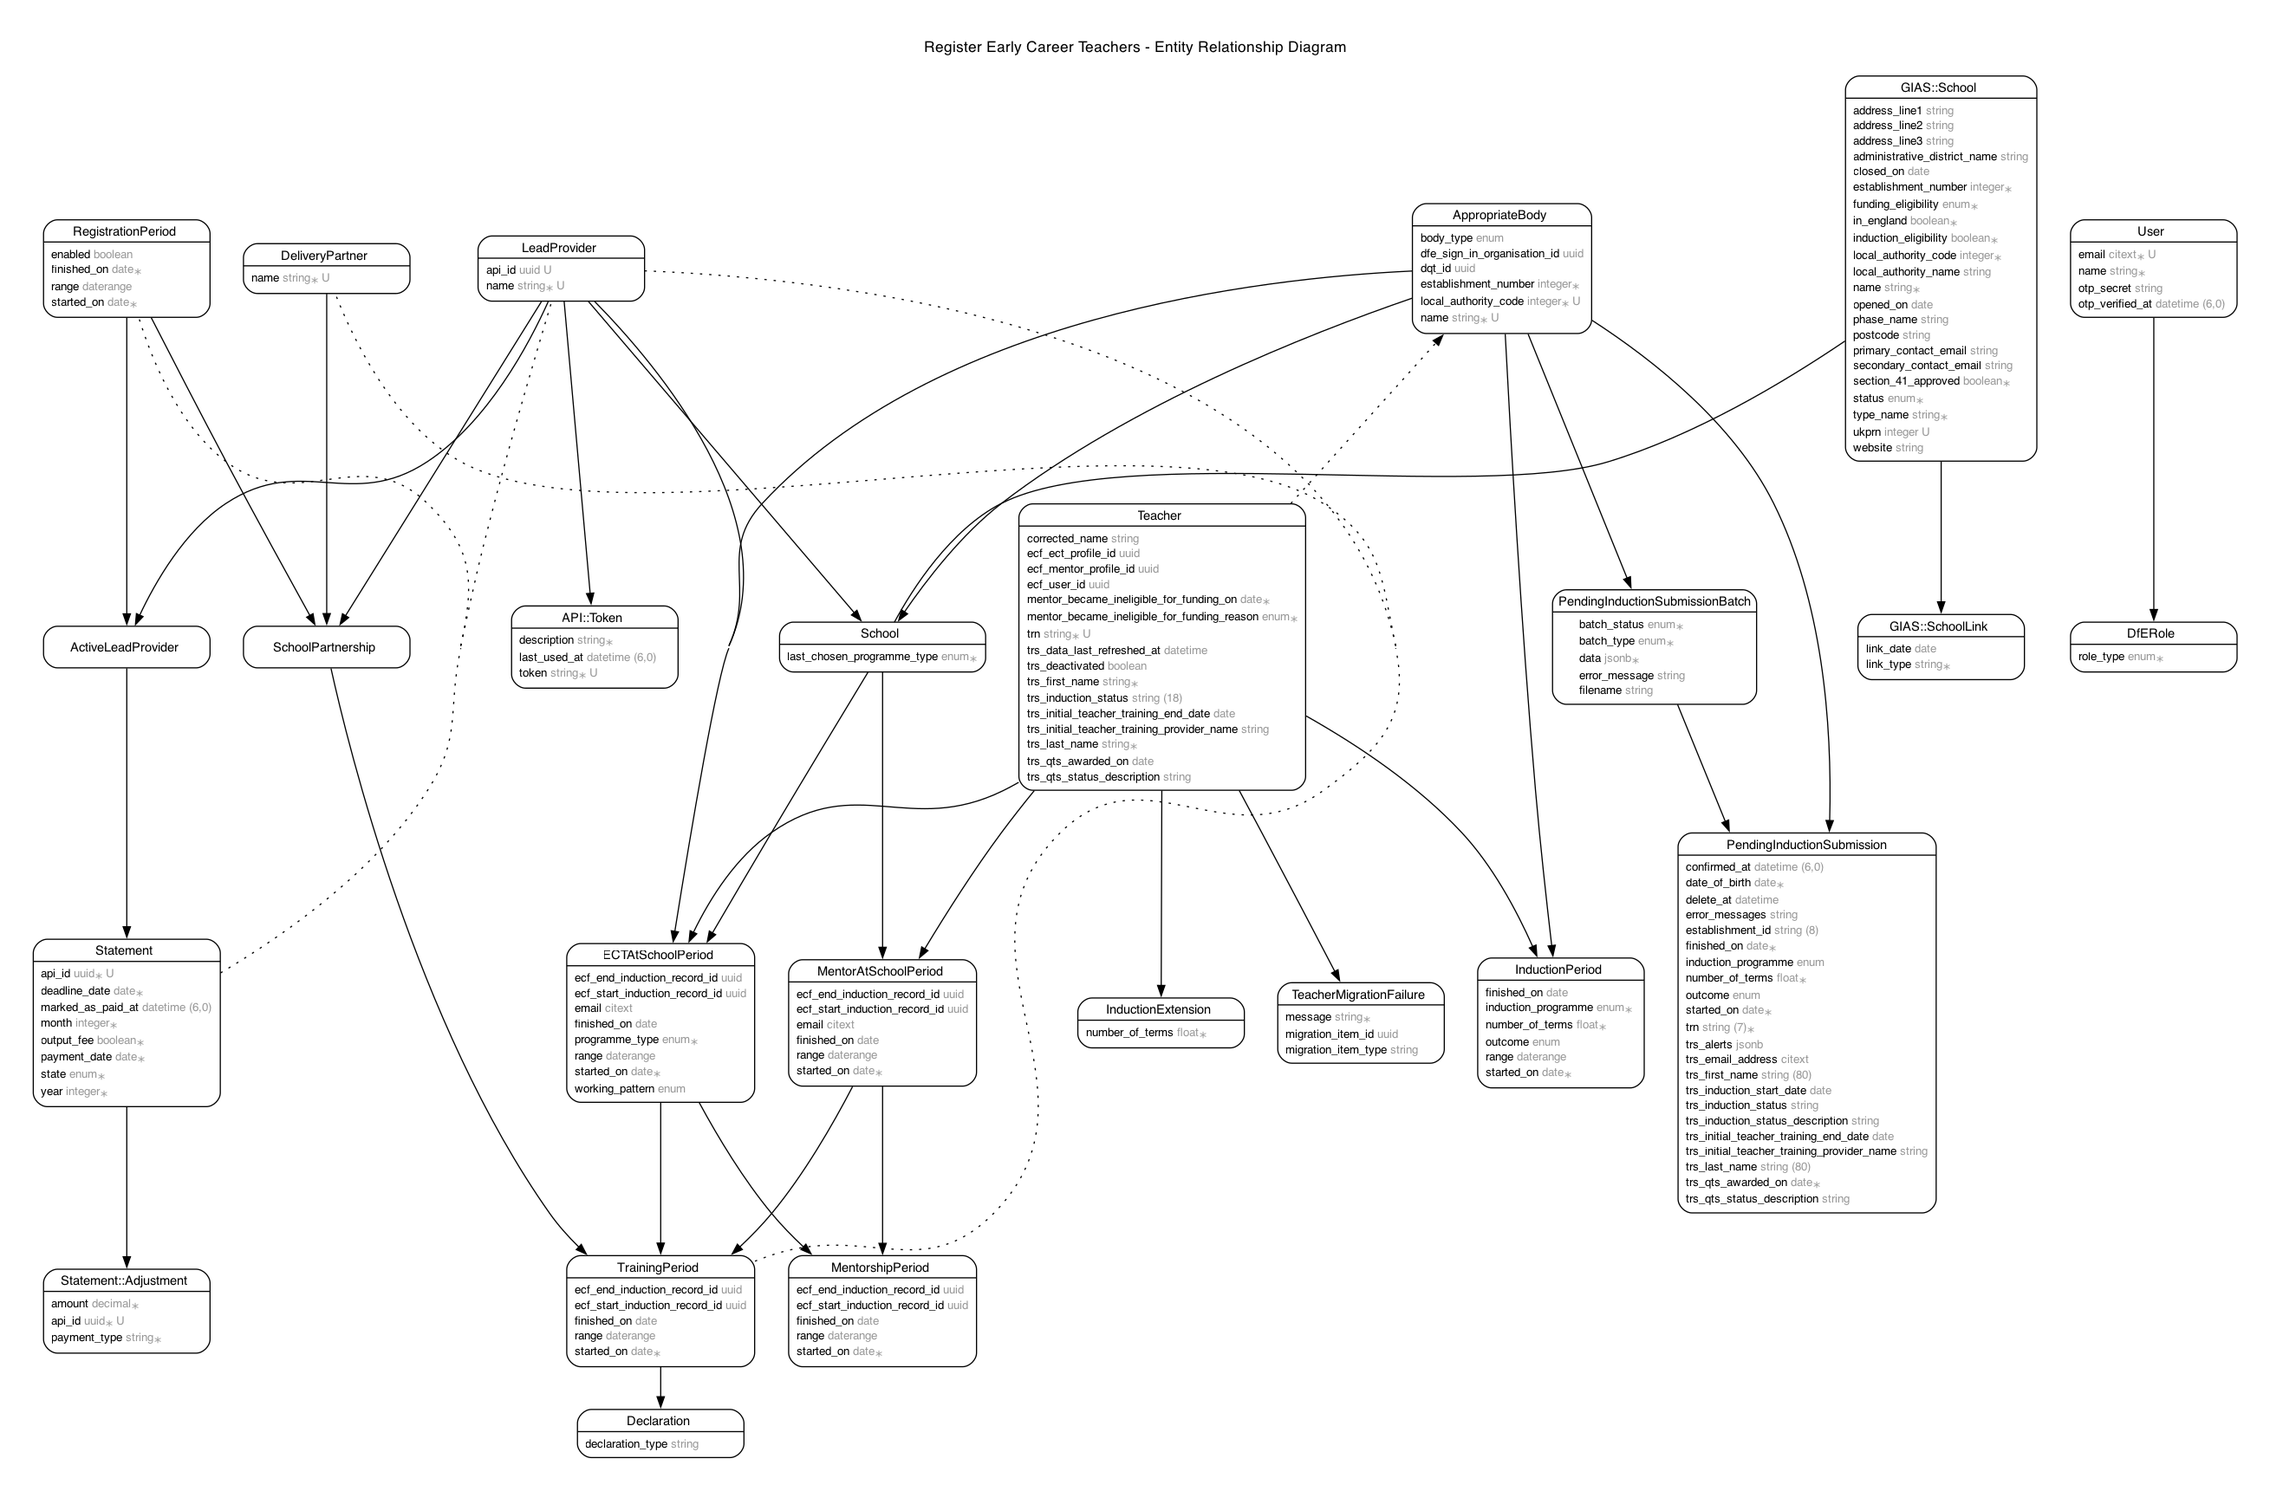
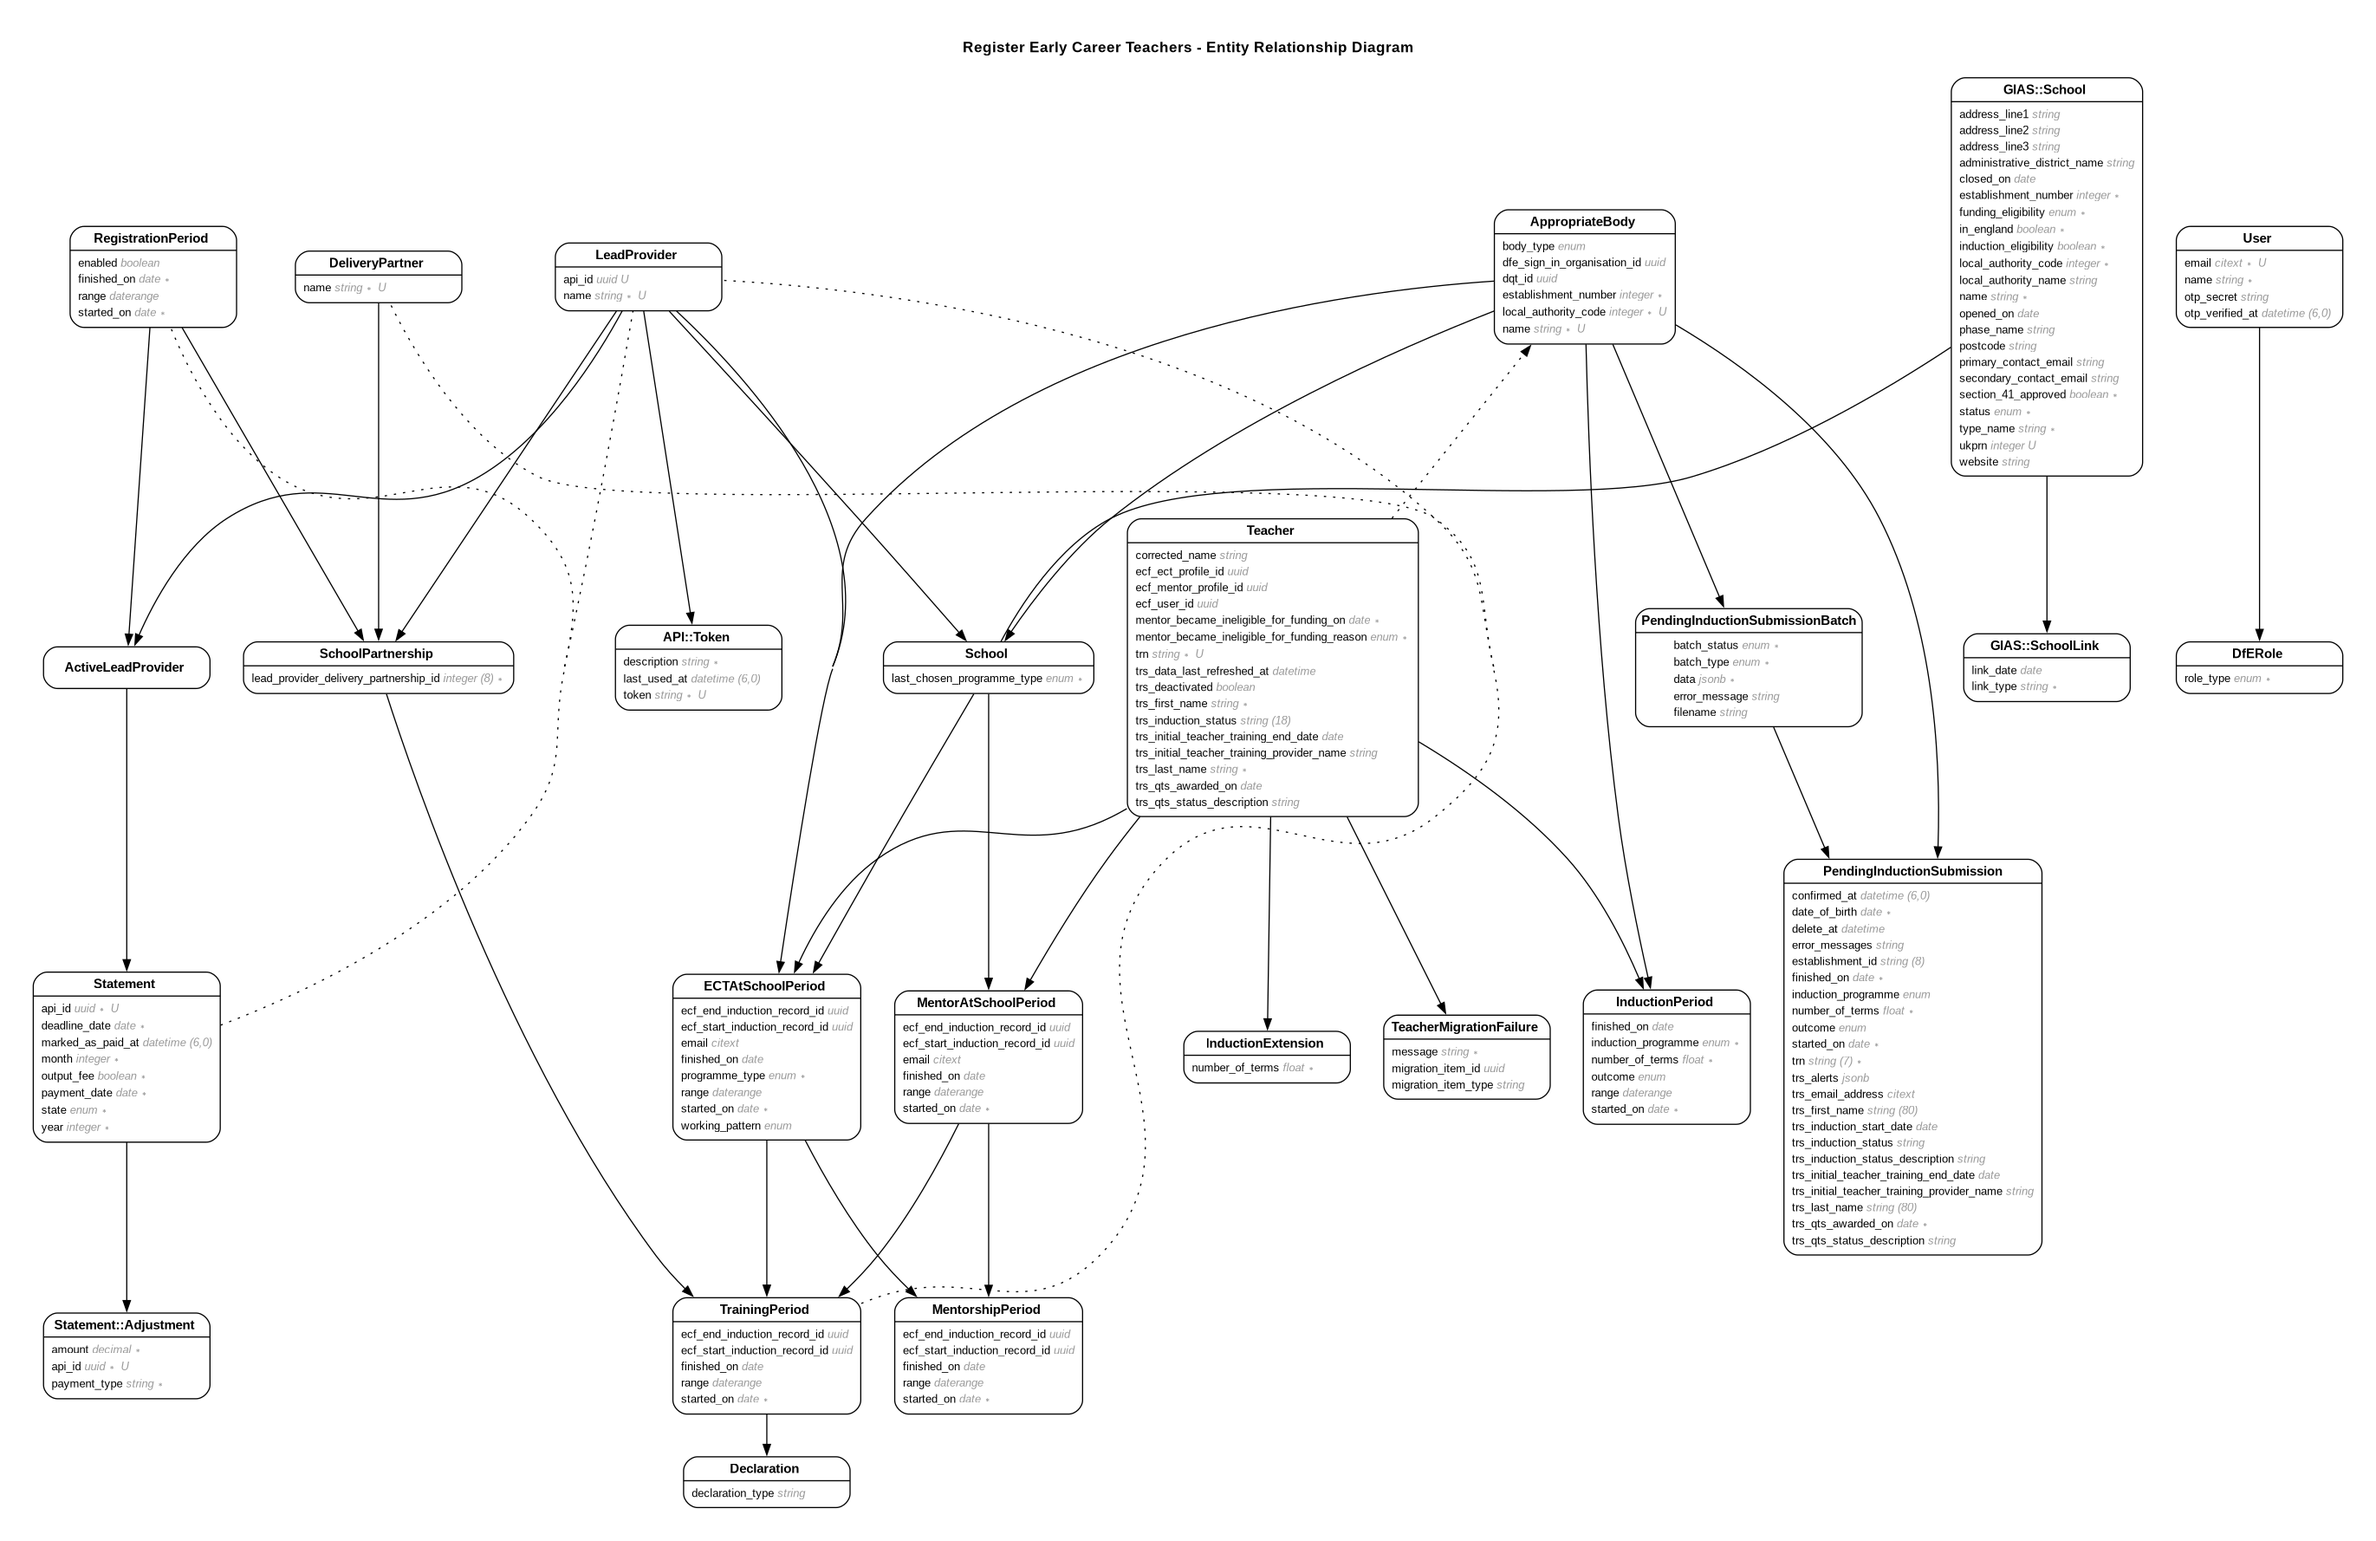
Add available provider pairing migrations
These make the following changes:

1. create the avaiable_provider_pairings table, which will hold the
   mapping of active_lead_providers to delivery partners

   this will be set up by us when we prepare a registration period

2. link school_partnerships to available_provider_pairings

   this relationship tells us which lead provider and delivery partners
   will be providing training in a given registration period

   for now, it's repeating the direct lead_provider_id and delivery
   partner_id relationships from school_partnership, but they won't
   be around for long...

3. remove the registration_period_id from school_partnerships

   now, there will be an indirect route to this via
   available_provider_pairings and active_lead_providers

4. remove the lead_provider_id from school_partnerships

   again, there will be an indirect route to this via
   available_provider_pairings and active_lead_providers

5. remove the delivery_partner_id from school_partnerships

   the delivery partner will be accesisble via the
   available_provider_pairings

diff --git a/db/schema.rb b/db/schema.rb
@@ -289,6 +289,16 @@ ActiveRecord::Schema[8.0].define(version: 2025_06_10_141739) do
     t.index ["teacher_id"], name: "index_induction_periods_on_teacher_id"
   end
 
+  create_table "lead_provider_delivery_partnerships", force: :cascade do |t|
+    t.bigint "active_lead_provider_id", null: false
+    t.bigint "delivery_partner_id", null: false
+    t.datetime "created_at", null: false
+    t.datetime "updated_at", null: false
+    t.index ["active_lead_provider_id", "delivery_partner_id"], name: "idx_on_active_lead_provider_id_delivery_partner_id_3c66d9e812", unique: true
+    t.index ["active_lead_provider_id"], name: "idx_on_active_lead_provider_id_2f96b67fbb"
+    t.index ["delivery_partner_id"], name: "idx_on_delivery_partner_id_fcb95e8215"
+  end
+
   create_table "lead_providers", force: :cascade do |t|
     t.string "name", null: false
     t.datetime "created_at", null: false
@@ -399,15 +409,10 @@ ActiveRecord::Schema[8.0].define(version: 2025_06_10_141739) do
   end
 
   create_table "school_partnerships", force: :cascade do |t|
-    t.bigint "registration_period_id", null: false
-    t.bigint "lead_provider_id", null: false
-    t.bigint "delivery_partner_id", null: false
     t.datetime "created_at", null: false
     t.datetime "updated_at", null: false
-    t.index ["delivery_partner_id"], name: "index_school_partnerships_on_delivery_partner_id"
-    t.index ["lead_provider_id"], name: "index_school_partnerships_on_lead_provider_id"
-    t.index ["registration_period_id", "lead_provider_id", "delivery_partner_id"], name: "yearly_unique_provider_partnerships", unique: true
-    t.index ["registration_period_id"], name: "index_school_partnerships_on_registration_period_id"
+    t.bigint "lead_provider_delivery_partnership_id", null: false
+    t.index ["lead_provider_delivery_partnership_id"], name: "idx_on_lead_provider_delivery_partnership_id_628487f752"
   end
 
   create_table "schools", force: :cascade do |t|
@@ -665,9 +670,6 @@ ActiveRecord::Schema[8.0].define(version: 2025_06_10_141739) do
   add_foreign_key "pending_induction_submission_batches", "appropriate_bodies"
   add_foreign_key "pending_induction_submissions", "appropriate_bodies"
   add_foreign_key "pending_induction_submissions", "pending_induction_submission_batches"
-  add_foreign_key "school_partnerships", "delivery_partners"
-  add_foreign_key "school_partnerships", "lead_providers"
-  add_foreign_key "school_partnerships", "registration_periods", primary_key: "year"
   add_foreign_key "schools", "appropriate_bodies", column: "last_chosen_appropriate_body_id"
   add_foreign_key "schools", "gias_schools", column: "urn", primary_key: "urn"
   add_foreign_key "schools", "lead_providers", column: "last_chosen_lead_provider_id"

diff --git a/db/migrate/20250605104122_link_school_partnership_to_lead_provider_delivery_partnership.rb b/db/migrate/20250605104122_link_school_partnership_to_lead_provider_delivery_partnership.rb
@@ -1,0 +1,9 @@
+class LinkSchoolPartnershipToLeadProviderDeliveryPartnership < ActiveRecord::Migration[8.0]
+  def change
+    # NOTE: we won't have any school partnerships in prod but we might in staging/sandbox so
+    #       we'll have to delete them before re-seeding
+    # rubocop:disable Rails/NotNullColumn
+    add_reference :school_partnerships, :lead_provider_delivery_partnership, index: true, null: false
+    # rubocop:enable Rails/NotNullColumn
+  end
+end

diff --git a/db/migrate/20250605101802_create_lead_provider_delivery_partnerships.rb b/db/migrate/20250605101802_create_lead_provider_delivery_partnerships.rb
@@ -1,0 +1,10 @@
+class CreateLeadProviderDeliveryPartnerships < ActiveRecord::Migration[8.0]
+  def change
+    create_table :lead_provider_delivery_partnerships do |t|
+      t.references :active_lead_provider, null: false
+      t.references :delivery_partner, null: false
+      t.index %i[active_lead_provider_id delivery_partner_id], unique: true
+      t.timestamps
+    end
+  end
+end

diff --git a/db/migrate/20250606143505_remove_registration_period_id_from_school_partnerships.rb b/db/migrate/20250606143505_remove_registration_period_id_from_school_partnerships.rb
@@ -1,0 +1,11 @@
+class RemoveRegistrationPeriodIdFromSchoolPartnerships < ActiveRecord::Migration[8.0]
+  def up
+    remove_column :school_partnerships, :registration_period_id
+  end
+
+  def down
+    # rubocop:disable Rails/NotNullColumn
+    add_column :school_partnerships, :registration_period_id, :bigint, null: false
+    # rubocop:enable Rails/NotNullColumn
+  end
+end

diff --git a/db/migrate/20250609100535_remove_delivery_partner_id_from_school_partnerships.rb b/db/migrate/20250609100535_remove_delivery_partner_id_from_school_partnerships.rb
@@ -1,0 +1,11 @@
+class RemoveDeliveryPartnerIdFromSchoolPartnerships < ActiveRecord::Migration[8.0]
+  def up
+    remove_column :school_partnerships, :delivery_partner_id
+  end
+
+  def down
+    # rubocop:disable Rails/NotNullColumn
+    add_column :school_partnerships, :delivery_partner_id, :bigint, null: false
+    # rubocop:enable Rails/NotNullColumn
+  end
+end

diff --git a/db/migrate/20250606144431_remove_lead_provider_id_from_school_partnerships.rb b/db/migrate/20250606144431_remove_lead_provider_id_from_school_partnerships.rb
@@ -1,0 +1,11 @@
+class RemoveLeadProviderIdFromSchoolPartnerships < ActiveRecord::Migration[8.0]
+  def up
+    remove_column :school_partnerships, :lead_provider_id
+  end
+
+  def down
+    # rubocop:disable Rails/NotNullColumn
+    add_column :school_partnerships, :lead_provider_id, :bigint, null: false
+    # rubocop:enable Rails/NotNullColumn
+  end
+end
